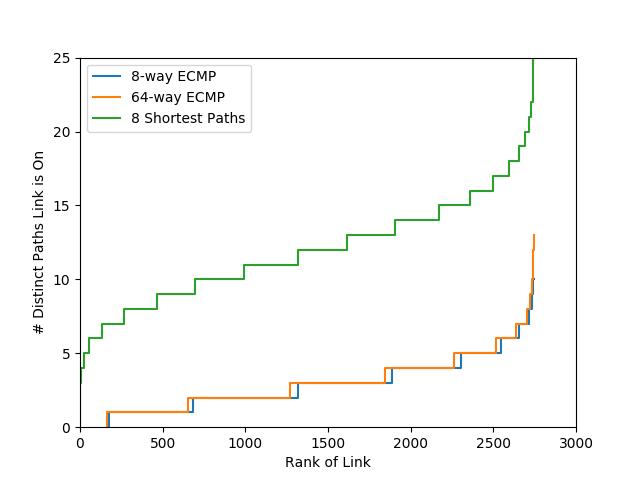
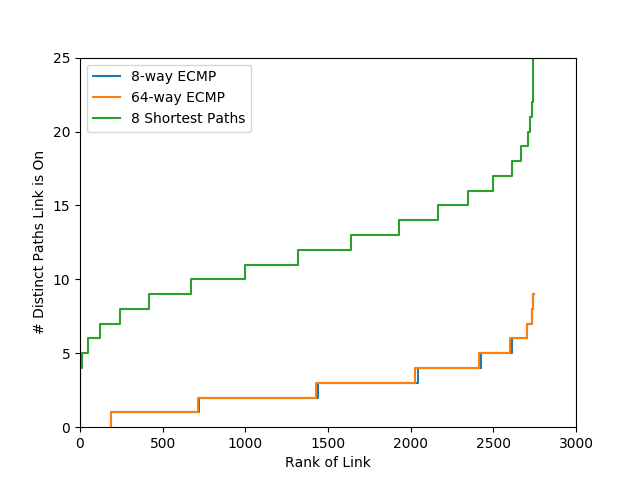
working on paths

diff --git a/poxStartup/pox/pox/ext/jelly_fresh.py b/poxStartup/pox/pox/ext/jelly_fresh.py
@@ -85,6 +85,7 @@ def write_paths_wrapper():
   link_to_port = defaultdict(lambda:defaultdict(lambda:None))
   ip_to_dpid = defaultdict(lambda:None)
 
+  # src dst - [[path 1] [path2]]; path 1: [first hop....dst]
   paths['10.0.0.1']['10.0.0.2'] = ['10.1.0.0', '10.0.0.2']
   paths['10.0.0.1']['10.0.0.3'] = ['10.1.0.0', '10.2.0.0', '10.3.0.0', '10.0.0.3']
   paths['10.0.0.1']['10.0.0.4'] = ['10.1.0.0', '10.2.0.0', '10.3.0.0', '10.0.0.4']

diff --git a/poxStartup/pox/pox/ext/calculatePaths.py b/poxStartup/pox/pox/ext/calculatePaths.py
@@ -44,10 +44,11 @@ def generate_data(graph, ecmp, ecmp_8):
     for edge in graph.edges():
         link_count[edge] = 0
 
-    for node_i in graph.nodes():
+    for i in range(0, len(graph.nodes())):
+        node_i = i
         node_j = node_i + 1
         if (node_j == len(graph.nodes())):
-            node_j = 1
+            node_j = 0 
         #ECMP 8
         if (ECMP):
             if (ECMP_8):

diff --git a/poxStartup/pox/pox/ext/create_rrg.py b/poxStartup/pox/pox/ext/create_rrg.py
@@ -2,7 +2,7 @@ import networkx as nx
 import json
 
 def main():
-    graph = nx.random_regular_graph(3, 4)
+    graph = nx.random_regular_graph(4, 686)
     graph = graph.to_directed()
     data = nx.readwrite.node_link_data(graph)
     with open('generated_rrg', 'w') as outfile:
